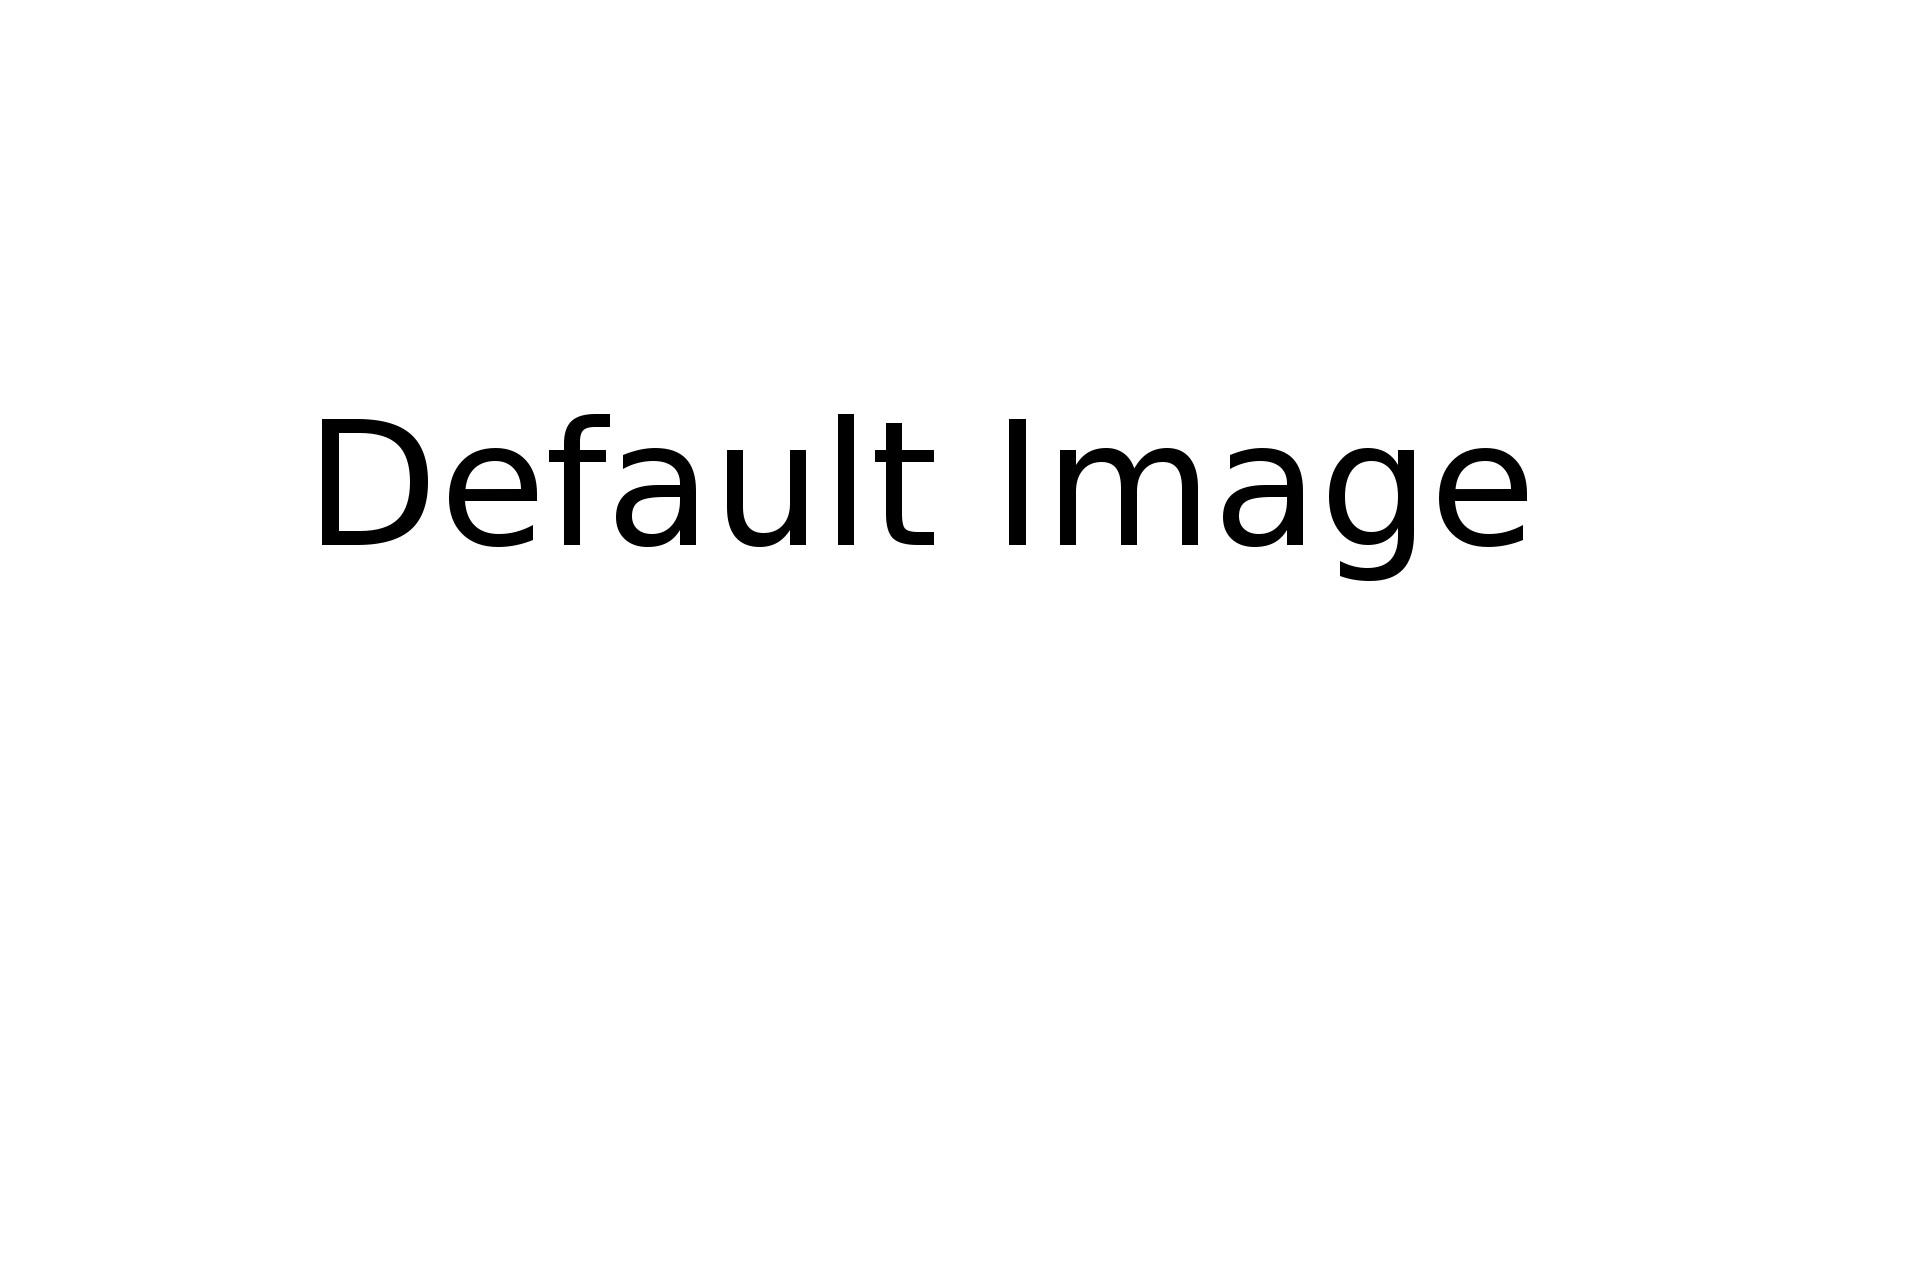
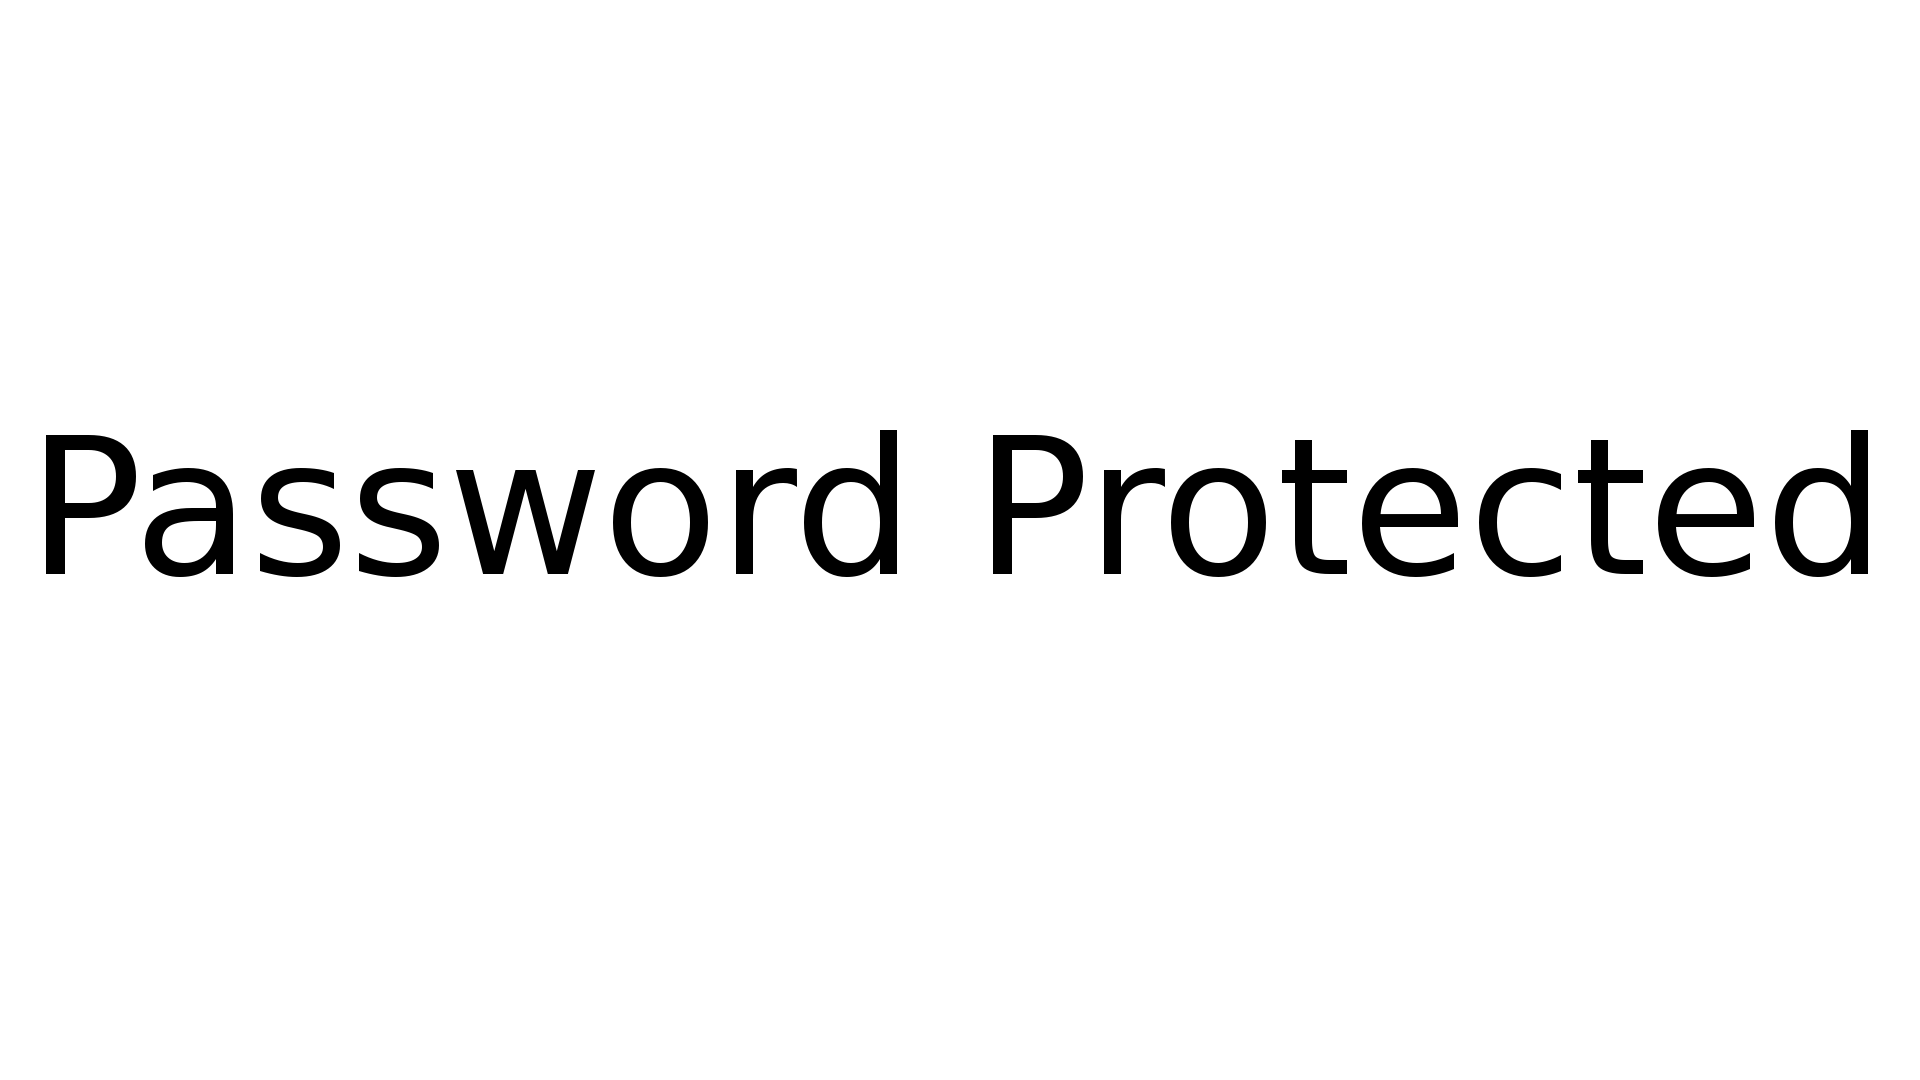
Bugfix catigory linking to wrong post

Changed region(s): [[0.0, 0.3056, 1.0, 0.55]]

diff --git a/css/style.css b/css/style.css
@@ -64,21 +64,21 @@ img
   display: table;
   clear: both;
 }
-.tags li
+ul.tags li
 {
 	display:inline-block;
 	margin-top:5px;
 	margin-right:5px;
-	padding-right:5px;
 }
-.tags li a
+ul.tags li a
 {
 	display:block;
-	width:100%;
-	height:auto;
+	padding:5px;
+	text-decoration:none;
 	font-size:0.7em;
-
+	margin:0px;
 }
+
 #single-body
 {
 	width:75%;
@@ -98,16 +98,7 @@ html, body
 
 .Tag a
 {
-	border-style:solid;
-	border-width: 1px;
-	border-radius:3px;
-	text-decoration: none;
-	padding:2px;
-	width:100%;
-	height:100%;
-	margin:2px;
-	margin-top: 5px;
-	margin-bottom: 5px;
+
 }
 
 #index-content
@@ -155,26 +146,27 @@ ul
 .FooterMenu li,
 ul.MainMenu li,
 .attachment_page_table_ul a,
+.tags li,
 .Button
 {
-    	border-style: solid;
-    	border-width: 1px;
-    	border-radius: 5px;
+		display:inline-block;
+    border-style: solid;
+    border-width: 1px;
+    border-radius: 5px;
 		text-decoration:none;
 		padding:0px;
 		margin:0px;
-
 }
+
 .FooterMenu a,
 ul.MainMenu li a,
 .Button a
 {
-	width:100%;
 	margin:0px;
 	padding:0px;
 }
 
-.MainMenu
+ul.MainMenu
 {
 	margin:20px;
 }
@@ -194,8 +186,8 @@ ul.MainMenu li a,
 .archive_single_post
 {
 	margin:5px;
-    width: auto;
-    float: left;
+  width: auto;
+  float: left;
 }
 
 

diff --git a/css/dark.css b/css/dark.css
@@ -35,6 +35,7 @@ h2
 {
 	color:red;
 	border-color:red;
+	background-color:grey;
 }
 
 .FooterMenuColor li,

diff --git a/functions.php b/functions.php
@@ -4,7 +4,7 @@
    	require('widgets/Resolution.php');
    	require('includes/helpers.php');
     require('includes/AWPlugins/AWPlugins.php');
-
+add_theme_support( 'post-thumbnails' );
     // 3. Make Courses posts show up in archive pages
     add_filter( 'pre_get_posts', 'wpshout_add_custom_post_types_to_query' );
     function wpshout_add_custom_post_types_to_query( $query ) {
@@ -179,13 +179,13 @@ add_action( 'customize_register', 'mytheme_customize_register' );
 
 function the_featured_image_url($id)
 {
-  $post = get_post($id);
 
   //Set the default featured image
   $featured_image_url = get_template_directory_uri()."/assets/images/default-featured-image.jpg";
 
+
   //If has a thumbnail
-  if($post->has_post_thumbnail):
+  if(has_post_thumbnail($id)):
     $featured_image_url = get_the_post_thumbnail_url($id);
   endif;
 
@@ -197,10 +197,6 @@ function the_featured_image_url($id)
   return $featured_image_url;
 }
 
-function the_lock_post_image_url()
-{
-	return get_template_directory_uri()."/assets/images/default-password-protected-image.jpg";
-}
 @ini_set('upload_max_size', '64M');
 @ini_set('post_max_size', '256M');
 @ini_set('max_execution_time', '400');

diff --git a/includes/helpers.php b/includes/helpers.php
@@ -51,26 +51,7 @@
 
    		}
 	}
-   /******************************************************************************************************************
-   *	Get the most recent permalink
-   ******************************************************************************************************************/
-   	if ( ! function_exists( 'Get_most_recent_permalink' ) ) :
-   		function Get_most_recent_permalink(){
-       			global $post;
-       			$tmp_post = $post;
-       			$args = array(
-           			'numberposts'     => 1,
-           			'offset'          => 0,
-           			'orderby'         => 'post_date',
-           			'order'           => 'DESC',
-           			'post_type'       => 'Painting',
-           			'post_status'     => 'publish' );
-       			$myposts = get_posts( $args );
-       			$permalink = get_permalink($myposts[0]->ID);
-       			$post = $tmp_post;
-       			return $permalink;
-   		}
-    	endif;
+	
 
    /******************************************************************************************************************
    *	Add numeric pagination to page

diff --git a/Templates/Parts/post.php b/Templates/Parts/post.php
@@ -1,7 +1,7 @@
 <div class="archive_single_post <?php echo get_post_type(); ?>">
 
 	<!-- Permalink of post -->
-	<?php $thumb_link =  Get_most_recent_permalink(); ?>
+	<?php $thumb_link =  get_permalink(); ?>
 
 	<!-- Alt text set to image title if available -->
 	<?php $alt_text = get_the_title(); ?>
@@ -10,7 +10,8 @@
 	<?php endif; ?>
 
 	<!-- Get the featured image url -->
-		<?php $image = the_featured_image_url(get_the_ID()); ?>
+	<?php $image = the_featured_image_url(get_the_ID()); ?>
+
 	<!-- get the defined width and height of the post featured image -->
 	<?php global $_wp_additional_image_sizes; ?>
 	<?php $image_width = $_wp_additional_image_sizes['post-thumbnail']['width']; ?>

diff --git a/single.php b/single.php
@@ -11,6 +11,7 @@
 
 <div id="single-body" class="group">
 	<div id="single-content">
+
 			<!-- The Loop -->
 			<?php if ( have_posts() ) : ?>
 				<?php while ( have_posts() ) : ?>
@@ -20,6 +21,8 @@
 						<?php if(!post_password_required()): ?>
 							<h1><?php the_title(); ?></h1>
 						<?php endif; ?>
+
+						<!-- The main content of the post -->
 						<?php the_content(); ?>
 
 						<!-- Don't show tags when password protected -->
@@ -32,7 +35,7 @@
 			<?php endif; ?>
 
 			</br>
-	
+
 		<!-- navigation links -->
 		<div class="nav-links">
 			<?php previous_post_link(); ?>

diff --git a/index.php b/index.php
@@ -11,7 +11,7 @@
  <?php if ( have_posts() ) : ?>
    <?php while ( have_posts() ) : ?>
      <?php the_post(); ?>
-     <?php get_template_part('/Templates/Parts/post'); ?>
+    <?php get_template_part('/Templates/Parts/post'); ?>
    <?php endwhile; ?>
  <?php endif; ?>
 </div>
